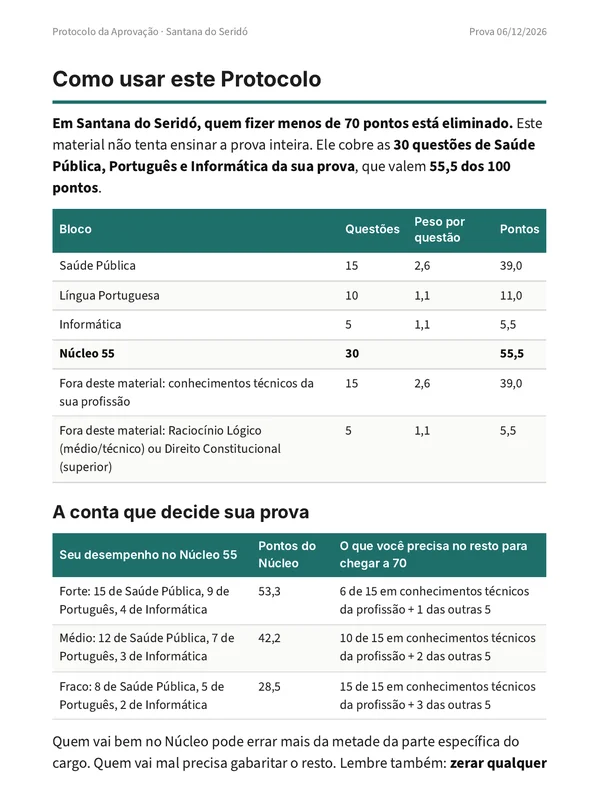
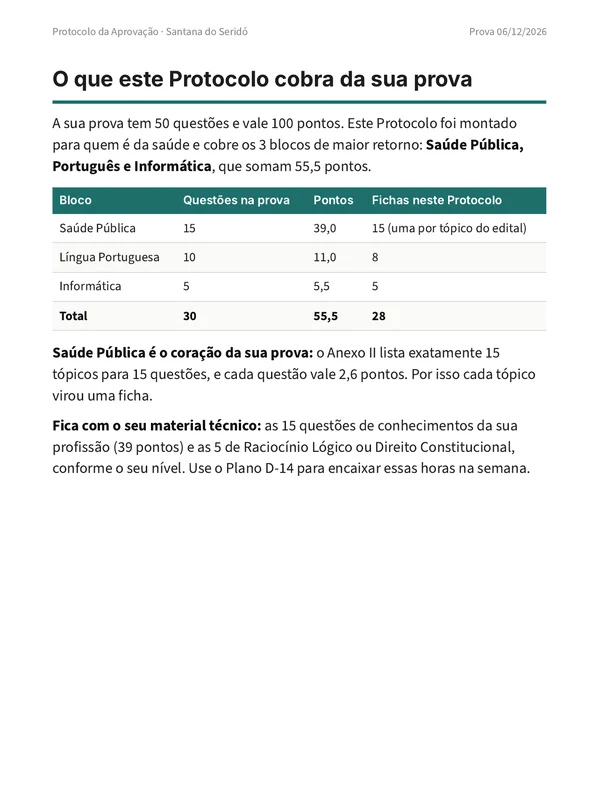
Concurso: copy com foco na aprovacao, sem nota de corte na frente
Claude-Session: https://claude.ai/code/session_01DdLhVrzTSzF8fYAo38uVGb

diff --git a/concurso-site/index.html b/concurso-site/index.html
@@ -126,7 +126,7 @@ fbq('init',id);fbq('track','PageView');fbq('track','ViewContent',{content_name:'
     <div>
       <span class="tag">Reta final · Prova em 06/12</span>
       <h1>Protocolo da Aprovação do Concurso de Santana do Seridó - RN</h1>
-      <p class="sub">Concurseiro da saúde, a nota de corte é 70. Aqui está a revisão do que mais pesa na tua prova: Saúde Pública, Português e Informática, com as pegadinhas que mais derrubam.</p>
+      <p class="sub">Concurseiro da saúde, esse é o protocolo para tu ser aprovado em Santana do Seridó: a revisão do que decide a tua classificação, Saúde Pública, Português e Informática, ficha por ficha, com as pegadinhas que a banca usa para derrubar candidato.</p>
       <div class="btns">
         <a class="btn" href="#planos">Bora revisar</a>
         <a class="btn btn--ghost" href="#conteudo">Ver o que tem dentro</a>
@@ -140,8 +140,8 @@ fbq('init',id);fbq('track','PageView');fbq('track','ViewContent',{content_name:'
 <!-- BLOCO 2 · ARGUMENTO -->
 <section class="arg">
   <div class="c cn">
-    <h2>Na reta final, apostila nova <span class="mark">não te dá 70</span></h2>
-    <p>Tá no edital: menos de 70 pontos, tá fora. Faltando poucos dias, quem sobe na lista é quem revisa o que mais pesa e enxerga a pegadinha antes da banca. Reler tudo agora só cansa.</p>
+    <h2>Na reta final, quem é aprovado é <span class="mark">quem revisa certo</span></h2>
+    <p>Concurso não se passa sabendo tudo. Se passa dominando o que mais pesa e enxergando a pegadinha antes da banca. É isso que o Protocolo faz: tira o que não decide e te entrega, ficha por ficha, o que te coloca na lista de aprovados.</p>
   </div>
 </section>
 
@@ -185,7 +185,7 @@ fbq('init',id);fbq('track','PageView');fbq('track','ViewContent',{content_name:'
     <div class="gal">
       <figure><img src="assets/img/g1.webp" alt="Ficha de Atenção Primária com Regra de Bolso e questão comentada" loading="lazy" width="600" height="800"><figcaption>Ficha SP-01 · Atenção Primária</figcaption></figure>
       <figure><img src="assets/img/g2.webp" alt="Ficha de Vigilância Epidemiológica com prazos de notificação compulsória" loading="lazy" width="600" height="800"><figcaption>Ficha SP-14 · Vigilância Epidemiológica</figcaption></figure>
-      <figure><img src="assets/img/g3.webp" alt="Tabela da conta dos 70 pontos" loading="lazy" width="600" height="800"><figcaption>A conta dos 70 pontos</figcaption></figure>
+      <figure><img src="assets/img/g3.webp" alt="Página que mostra quanto cada bloco do Protocolo vale na prova" loading="lazy" width="600" height="800"><figcaption>O que o Protocolo cobra da tua prova</figcaption></figure>
       <figure><img src="assets/img/g4.webp" alt="Ficha de crase com o truque do masculino e questão comentada" loading="lazy" width="600" height="800"><figcaption>Ficha LP-05 · Crase</figcaption></figure>
     </div>
     <p class="dica">Arraste para o lado →</p>
@@ -211,9 +211,9 @@ fbq('init',id);fbq('track','PageView');fbq('track','ViewContent',{content_name:'
     <div class="prova-img"><img src="assets/img/mesa.webp" alt="Mesa de estudo com fichas de Saúde Pública, caneta marca-texto e celular aberto no material" loading="lazy" width="800" height="600"></div>
     <div>
       <p class="eyebrow">Por que esse material funciona</p>
-      <h2>Feito para os 70 pontos da tua prova</h2>
-      <p class="lead">O edital corta quem fizer menos de 70 e dá peso 2,6 para cada questão específica. A gente pegou o Anexo II com olhar de quem é da saúde e separou os blocos que mais pesam na tua nota: Saúde Pública, Português e Informática, que somam 55,5 pontos. Cada tópico virou uma ficha curta, com o que cai, a pegadinha, uma Regra de Bolso e uma questão comentada.</p>
-      <blockquote>Tu não precisa saber tudo. Precisa fazer 70, e 55,5 desses pontos estão aqui.</blockquote>
+      <h2>Feito para te aprovar em Santana do Seridó</h2>
+      <p class="lead">O Protocolo nasceu do Edital 007/2026. A gente pegou o Anexo II com olhar de quem é da saúde e separou os blocos que mais pesam na tua classificação: Saúde Pública, Português e Informática, 55,5 pontos da prova. Cada tópico virou uma ficha curta, com o que cai, a pegadinha, uma Regra de Bolso e uma questão comentada. Estuda por ele e tu chega no dia 06/12 com o núcleo da tua aprovação dominado.</p>
+      <blockquote>Tu não precisa saber tudo para passar. Precisa dominar o que decide a aprovação, e está tudo aqui.</blockquote>
       <div class="ind"><div>55,5 pontos mapeados</div><div>Feito para quem é da saúde</div><div>28 fichas diretas</div><div>100% com gabarito comentado</div></div>
     </div>
   </div>
@@ -228,7 +228,7 @@ fbq('init',id);fbq('track','PageView');fbq('track','ViewContent',{content_name:'
         <h3>Plano Básico</h3>
         <p class="d">O bloco que mais pesa, para começar a revisar hoje.</p>
         <p class="price">R$ 9,90 <small>à vista</small></p>
-        <ul><li>15 fichas de Saúde Pública (39 pontos)</li><li>15 questões comentadas</li></ul>
+        <ul><li>15 fichas de Saúde Pública, o bloco que mais pesa</li><li>15 questões comentadas</li></ul>
         <a class="btn" data-plano="basico" href="#planos">Começar por R$ 9,90</a>
       </div>
       <div class="plan plan--top">
@@ -258,8 +258,8 @@ fbq('init',id);fbq('track','PageView');fbq('track','ViewContent',{content_name:'
 <!-- BLOCO 10 · CHAMADA FINAL -->
 <section class="final">
   <div class="c cn">
-    <h2>A prova é dia 06/12. Bora começar hoje.</h2>
-    <p>Por menos de R$ 20, tu revisa os 55,5 pontos que mais pesam na prova de quem é da saúde.</p>
+    <h2>Tua aprovação começa hoje. A prova é dia 06/12.</h2>
+    <p>Por menos de R$ 20, tu leva o protocolo feito para aprovar quem é da saúde em Santana do Seridó.</p>
     <a class="btn" href="#planos">Garantir por R$ 19,90</a>
   </div>
 </section>
